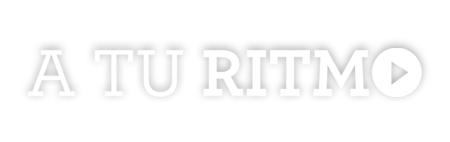
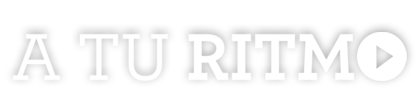
tweak header

diff --git a/scss/proj/_custom.scss b/scss/proj/_custom.scss
@@ -29,14 +29,16 @@ html, body {
 }
 header {
     height: 15%;
-    max-height: 142px;
+    max-height: 100px;
     top: 0;
 
     img {
+        @include nosel();
         height: 100%;
     }
 }
 nav.pager {
+    @include nosel();
     $num: 8;
     $w: 15px;
     $h: 28px;
@@ -68,6 +70,7 @@ nav.pager {
     }
 }
 footer {
+    @include nosel();
     @include transition( bottom 0.5s );
     bottom: -2em;
 
